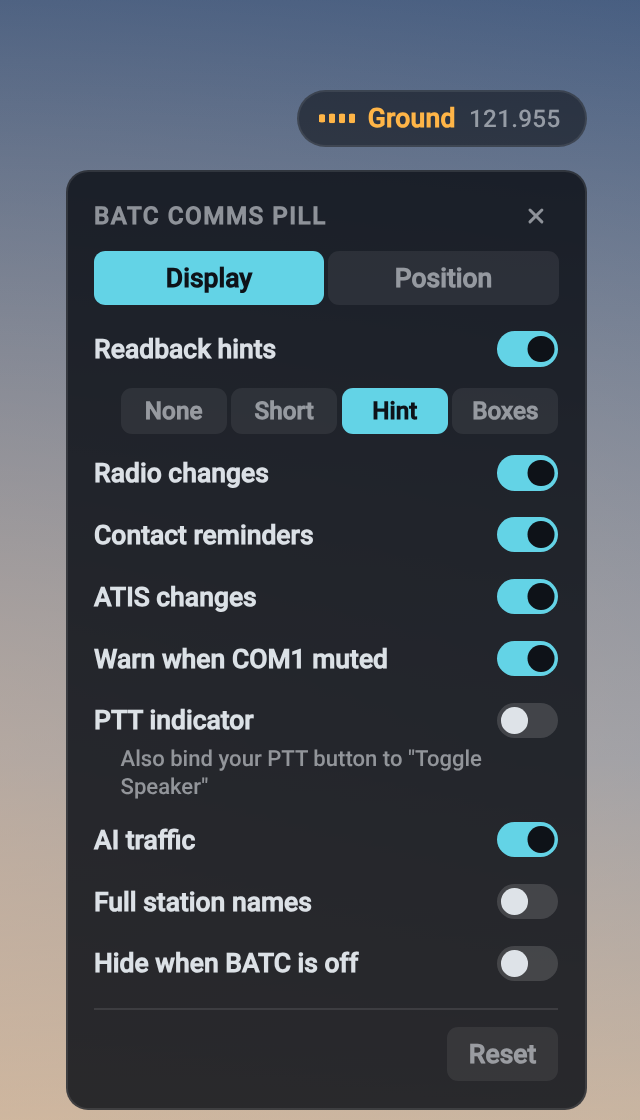
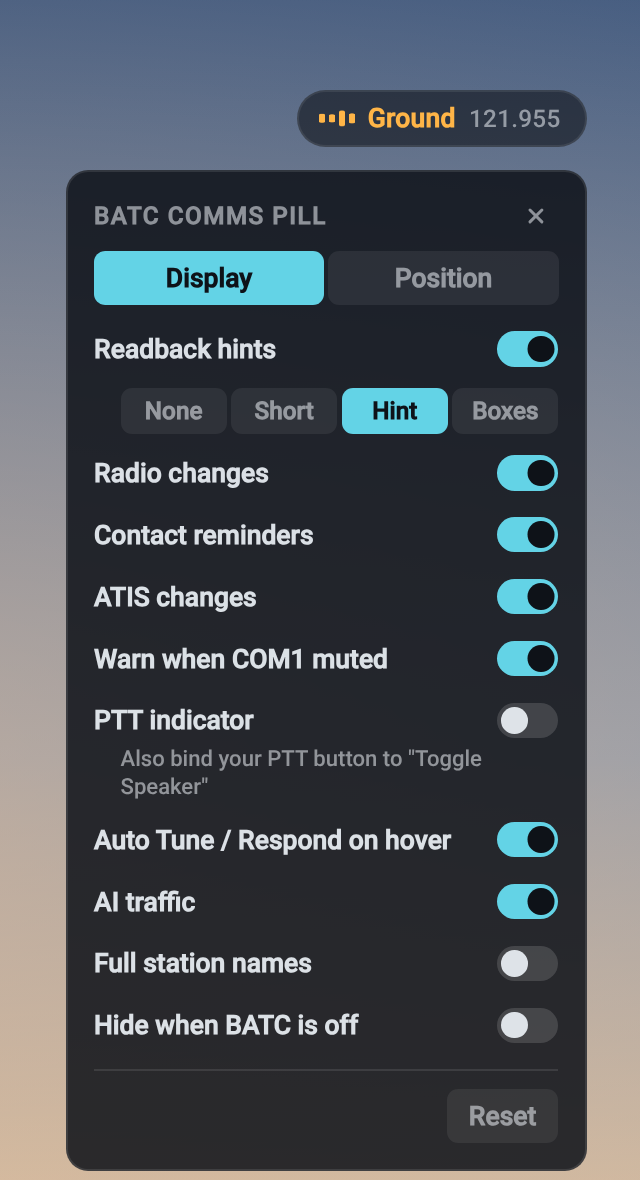
Auto Tune / Auto Respond buttons on hover
Hovering the pill shows two round buttons under it (radio waves: Auto Tune, speech bubble: Auto Respond),
lit when on, dimmed and struck through when off. A click sends the toolbar's own command
("set_autotune: true|false", "set_autorespond: true|false"); BeyondATC broadcasts the new state back.
These are the only messages the pill sends. Setting "Auto Tune / Respond on hover" (on by default).

Claude-Session: https://claude.ai/code/session_01Lk4uSD1H6Vg8SX71CWaquM

diff --git a/src/html_ui/paul-batc-pill/pill.js b/src/html_ui/paul-batc-pill/pill.js
@@ -1,5 +1,6 @@
 // BATC comms pill: shows BeyondATC's comms state in a screen corner during flight.
-// Reads BeyondATC's toolbar socket (the same one its in-sim panel uses); never sends anything.
+// Reads BeyondATC's toolbar socket (the same one its in-sim panel uses). The only thing it sends is what
+// BeyondATC's own toolbar switches send: "set_autotune: true|false" and "set_autorespond: true|false".
 (function () {
   "use strict";
 
@@ -29,6 +30,7 @@
     pttBlock: false,     // also stop the sim acting on it
     pttDelayMs: 250,     // PTT held this long before "Transmitting" shows. Under ~450 ms a click still shows briefly:
                          // the sim's first repeat comes at ~0.4 s, so a click looks held until then
+    hoverSwitches: true, // hovering the pill shows BeyondATC's Auto Tune and Auto Respond buttons
     hideOffline: false,  // true: no pill at all while BeyondATC isn't running
     showTraffic: true,   // show a neutral "Traffic" pill while AI traffic talks
     facility: "short",   // "short": "Ground", "full": "Montpellier Ground"
@@ -41,7 +43,7 @@
 
   // What the settings card changes. Saved in localStorage, which every sim UI view shares.
   var USER_KEYS = ["corner", "x", "y", "scale", "showTuning", "showContact", "showAtis", "showReadback", "readbackDetail",
-    "warnMuted", "showPtt", "hideOffline",
+    "warnMuted", "showPtt", "hoverSwitches", "hideOffline",
     "showTraffic", "facility"];
   var STORE_KEY = "batcpill.settings";
   var DEFAULTS = {};
@@ -99,6 +101,7 @@
     pttRepeating: false,
     demo: "",            // the setting changed last in the card; the sample shows its effect
     autoTune: true,      // BeyondATC tunes the radios itself ("AutoTune: true")
+    autoRespond: false,  // BeyondATC replies for you ("AutoRespond: true")
     contact: null,       // { name, freq } ATC told you to contact, until COM1 is on it (Auto Tune off)
     atis: "",            // new ATIS letter, shown until atisUntil
     atisUntil: 0,
@@ -106,7 +109,7 @@
     seenInfo: false,     // the first InfoBoxes after connecting is the snapshot, not a change
   };
   var socket = null;
-  var timers = { reconnect: 0, linger: 0, error: 0, tune: 0, missed: 0, confirm: 0, atis: 0, demo: 0, ptt: 0, pttShow: 0, swap: 0, poll: 0 };
+  var timers = { reconnect: 0, linger: 0, error: 0, tune: 0, missed: 0, confirm: 0, swHide: 0, atis: 0, demo: 0, ptt: 0, pttShow: 0, swap: 0, poll: 0 };
   var destroyed = false;
   var current = null;    // last rendered view signature
 
@@ -154,6 +157,7 @@
       toggleRow("ATIS changes", "showAtis") + toggleRow("Warn when COM1 muted", "warnMuted") +
       toggleRow("PTT indicator", "showPtt") +
       '<div class="bc-note">Also bind your PTT button to "Toggle Speaker"</div>' +
+      toggleRow("Auto Tune / Respond on hover", "hoverSwitches") +
       toggleRow("AI traffic", "showTraffic") + toggleRow("Full station names", "fullNames") +
       toggleRow("Hide when BATC is off", "hideOffline") +
     "</div>" +
@@ -167,6 +171,24 @@
     '<div class="bc-foot"><span class="bc-btn bc-reset" data-act="reset">Reset</span></div>';
   document.body.appendChild(card);
   var cardEls = card.querySelectorAll("*");
+
+  // Auto Tune / Auto Respond buttons, beside the pill while the mouse is over it (see onMouseMove)
+  var switches = document.createElement("div");
+  switches.id = "batc-pill-sw";
+  switches.className = "is-closed";
+  // one icon button each, lit when on, dimmed and struck through when off
+  var SLASH = '<path class="bs-slash" d="M2.5 2.5l11 11"/>';
+  switches.innerHTML =
+    '<span class="bs-btn" data-sw="autotune"><svg viewBox="0 0 16 16" fill="none" stroke="currentColor" ' +
+      'stroke-width="1.6" stroke-linecap="round"><circle cx="8" cy="8" r="1.6" fill="currentColor" stroke="none"/>' +
+      '<path d="M5.2 5.2a4 4 0 0 0 0 5.6M10.8 5.2a4 4 0 0 1 0 5.6M3.1 3.1a7 7 0 0 0 0 9.8M12.9 3.1a7 7 0 0 1 0 9.8"/>' +
+      SLASH + "</svg></span>" +
+    '<span class="bs-btn" data-sw="autorespond"><svg viewBox="0 0 16 16" fill="none" stroke="currentColor" ' +
+      'stroke-width="1.6" stroke-linecap="round" stroke-linejoin="round"><path d="M2.5 3.5h11v7h-6l-3 2.5v-2.5h-2z"/>' +
+      '<path d="M5.5 7h5"/>' + SLASH + "</svg></span>";
+  document.body.appendChild(switches);
+  var switchEls = [switches].concat([].slice.call(switches.querySelectorAll("*")));
+  var switchesOpen = false;
 
   function stepRow(label, key) {
     return '<div class="bc-row"><span class="bc-label">' + label + '</span><span class="bc-step">' +
@@ -811,6 +833,11 @@
       case "AutoTune":
         state.autoTune = payload !== "false";
         if (state.autoTune) state.contact = null;
+        updateSwitches();
+        break;
+      case "AutoRespond":
+        state.autoRespond = payload === "true";
+        updateSwitches();
         break;
       case "Actions":
         onActions(payload);
@@ -861,6 +888,7 @@
       state.repliesKey = "";
       state.infoBoxes = [];
       state.readback = null;
+      showSwitches(false);
       render();
       if (!destroyed) timers.reconnect = setTimeout(connect, CONFIG.reconnectMs);
     };
@@ -907,6 +935,7 @@
 
   function openCard(open) {
     state.editing = open;
+    if (open) showSwitches(false);
     card.className = open ? "" : "is-closed";
     // the sim checks data-input-group on the exact element under the cursor, so tag every element
     var els = [card].concat([].slice.call(cardEls));
@@ -962,6 +991,86 @@
     timers.demo = setTimeout(function () { state.demo = ""; render(); }, CONFIG.demoMs);
     set(patch);
   });
+
+  // ---- BeyondATC buttons on hover ----------------------------------------
+  // Mousemove reaches mainUi whatever is under the cursor, so hovering is worked out from positions: the
+  // buttons open over the pill and stay while the mouse is over the pill, the buttons or the gap between.
+
+  function canSwitch() {
+    return CONFIG.hoverSwitches && state.connected && state.inFlight && !state.editing && current !== null &&
+      current !== "hidden";
+  }
+
+  function onMouseMove(e) {
+    if (!canSwitch()) { if (switchesOpen) showSwitches(false); return; }
+    var r = root.getBoundingClientRect();
+    var a = { left: r.left, right: r.right, top: r.top, bottom: r.bottom };
+    if (switchesOpen) {
+      var b = switches.getBoundingClientRect();
+      a = { left: Math.min(a.left, b.left), right: Math.max(a.right, b.right),
+        top: Math.min(a.top, b.top), bottom: Math.max(a.bottom, b.bottom) };
+    }
+    var m = switchesOpen ? 8 : 0;
+    var inside = e.clientX >= a.left - m && e.clientX <= a.right + m && e.clientY >= a.top - m && e.clientY <= a.bottom + m;
+    if (inside) {
+      clearTimeout(timers.swHide);
+      timers.swHide = 0;
+      if (!switchesOpen) showSwitches(true);
+    } else if (switchesOpen && !timers.swHide) {
+      timers.swHide = setTimeout(function () { timers.swHide = 0; showSwitches(false); }, 350);
+    }
+  }
+
+  function showSwitches(open) {
+    switchesOpen = open;
+    switches.className = open ? "" : "is-closed";
+    // clicks need data-input-group on the exact element under the cursor (see openCard)
+    for (var i = 0; i < switchEls.length; i++) {
+      if (open) switchEls[i].setAttribute("data-input-group", "BATC-PILL");
+      else switchEls[i].removeAttribute("data-input-group");
+    }
+    if (open) { placeSwitches(); updateSwitches(); }
+  }
+
+  function placeSwitches() {
+    // beside the pill, on its side, away from the screen edge it sits on
+    var r = root.getBoundingClientRect();
+    var gap = 6 * 0.000926 * window.innerHeight;
+    var st = switches.style;
+    st.top = st.bottom = st.left = st.right = "";
+    if (root.getAttribute("data-side") === "left") st.left = r.left + "px";
+    else st.right = window.innerWidth - r.right + "px";
+    switches.setAttribute("data-edge", /^bottom/.test(CONFIG.corner) ? "bottom" : "top");
+    if (/^bottom/.test(CONFIG.corner)) st.bottom = window.innerHeight - r.top + gap + "px";
+    else st.top = r.bottom + gap + "px";
+  }
+
+  function updateSwitches() {
+    var chips = switches.querySelectorAll("[data-sw]");
+    for (var i = 0; i < chips.length; i++) {
+      var on = chips[i].getAttribute("data-sw") === "autotune" ? state.autoTune : state.autoRespond;
+      chips[i].className = "bs-btn" + (on ? " is-on" : "");
+    }
+  }
+
+  switches.addEventListener("click", function (e) {
+    var el = e.target;
+    while (el && el !== switches && !el.hasAttribute("data-sw")) el = el.parentNode;
+    if (!el || el === switches || !socket || socket.readyState !== 1) return;
+    // the same commands as BeyondATC's toolbar switches; it then sends the new state to every client
+    if (el.getAttribute("data-sw") === "autotune") {
+      state.autoTune = !state.autoTune;
+      if (state.autoTune) state.contact = null;
+      socket.send("set_autotune: " + state.autoTune);
+    } else {
+      state.autoRespond = !state.autoRespond;
+      socket.send("set_autorespond: " + state.autoRespond);
+    }
+    updateSwitches();
+    render();
+  });
+
+  document.addEventListener("mousemove", onMouseMove);
 
   // ---- flight detection -----------------------------------------------
 
@@ -1038,6 +1147,8 @@
     if (keyHandler && window.engine && typeof window.engine.off === "function") window.engine.off("keyIntercepted", keyHandler);
     if (root.parentNode) root.parentNode.removeChild(root);
     if (card.parentNode) card.parentNode.removeChild(card);
+    if (switches.parentNode) switches.parentNode.removeChild(switches);
+    document.removeEventListener("mousemove", onMouseMove);
     if (style.parentNode) style.parentNode.removeChild(style);
     if (window.batcPill && window.batcPill.destroy === destroy) delete window.batcPill;
   }

diff --git a/src/html_ui/paul-batc-pill/pill.css b/src/html_ui/paul-batc-pill/pill.css
@@ -222,6 +222,48 @@
 #batc-pill[data-input-group]:hover .bp-bg { background-color: rgba(14, 18, 24, 0.78); }
 #batc-pill.is-dot[data-input-group]:hover { opacity: 1; }
 
+/* ---- BeyondATC switches (on hover) ---- */
+#batc-pill-sw {
+  --k: 0.0926vh;
+  --on: #63d3e6;
+  position: absolute;
+  z-index: 9999;
+  display: flex;
+  pointer-events: auto;
+  opacity: 1;
+  transform: translateY(0);
+  visibility: visible;
+  transition: opacity 0.18s ease, transform 0.25s cubic-bezier(0.22, 0.8, 0.24, 1), visibility 0s;
+}
+#batc-pill-sw.is-closed {
+  opacity: 0;
+  transform: translateY(calc(-4 * var(--k)));
+  pointer-events: none;
+  visibility: hidden;
+  transition: opacity 0.18s ease, transform 0.25s ease, visibility 0s linear 0.25s;
+}
+#batc-pill-sw .bs-btn {
+  display: flex;
+  align-items: center;
+  justify-content: center;
+  box-sizing: border-box;
+  width: calc(26 * var(--k));
+  height: calc(26 * var(--k));
+  margin-left: calc(4 * var(--k));
+  border-radius: 50%;
+  border: calc(1 * var(--k)) solid rgba(255, 255, 255, 0.08);
+  background-color: rgba(14, 18, 24, 0.78);
+  color: rgba(236, 241, 246, 0.45);
+  cursor: pointer;
+  transition: background-color 0.15s ease, color 0.15s ease, border-color 0.15s ease;
+}
+#batc-pill-sw .bs-btn:first-child { margin-left: 0; }
+#batc-pill-sw .bs-btn:hover { background-color: rgba(30, 36, 44, 0.9); }
+#batc-pill-sw .bs-btn svg { width: calc(14 * var(--k)); height: calc(14 * var(--k)); }
+#batc-pill-sw .bs-btn.is-on { color: var(--on); border-color: rgba(99, 211, 230, 0.55); }
+#batc-pill-sw .bs-btn.is-on .bs-slash { display: none; }
+#batc-pill-sw[data-edge="bottom"].is-closed { transform: translateY(calc(4 * var(--k))); }
+
 /* ---- settings card (opens on pill click) ---- */
 #batc-pill-cfg {
   --k: 0.0926vh;

diff --git a/docs/render_images.py b/docs/render_images.py
@@ -60,7 +60,7 @@ def main():
     print(f"render: states.png {img.size}")
 
     # pill + open card in the top-right corner of a 1080p screen
-    img = shoot("settings.html", (1920, 1080), 2).crop((1600 * 2, 50 * 2, 1920 * 2, 610 * 2))
+    img = shoot("settings.html", (1920, 1080), 2).crop((1600 * 2, 50 * 2, 1920 * 2, 640 * 2))
     img.save(OUT / "settings.png", optimize=True)
     print(f"render: settings.png {img.size}")
 

diff --git a/README.md b/README.md
@@ -32,6 +32,8 @@ Click the pill in flight to open its settings card (two tabs: Display and Positi
 
 <img src="docs/images/settings.png" alt="Settings card" width="340">
 
+Hovering the pill shows two buttons under it: BeyondATC's **Auto Tune** (radio waves) and **Auto Respond** (speech bubble). Lit means on, dimmed and struck through means off; a click flips it, as the toolbar's own switches do.
+
 **Display**
 
 | Setting | |
@@ -43,6 +45,7 @@ Click the pill in flight to open its settings card (two tabs: Display and Positi
 | ATIS changes | show a new ATIS letter |
 | Warn when COM1 muted | red-orange pill when ATC calls you while COM1 is muted |
 | PTT indicator | show "Transmitting" while your PTT button is held (see below) |
+| Auto Tune / Respond on hover | show the Auto Tune and Auto Respond buttons while the mouse is over the pill |
 | AI traffic | show the "Traffic" pill while AI traffic talks |
 | Full station names | "Montpellier Ground" instead of "Ground" |
 | Hide when BATC is off | no pill at all while BeyondATC isn't running |
@@ -133,7 +136,7 @@ CI (`.github/workflows/check.yml`) checks the JS, Python and JSON on every push,
 
 ## How it works
 
-- The BeyondATC desktop app serves its in-sim toolbar over `ws://127.0.0.1:41716`, in lines like `Type: payload`. `CommsState: {"mode","text"}` carries the state (`ready`, `queued`, `processing`, `request`, `awaiting`, `speaking`, `traffic`). The `ATC:` / `Player:` / `Traffic:` line before `speaking` says whose voice it is. `Facility:` (COM1) and `Com2:` changes trigger the radio-change pill. The pill only reads; it never sends.
+- The BeyondATC desktop app serves its in-sim toolbar over `ws://127.0.0.1:41716`, in lines like `Type: payload`. `CommsState: {"mode","text"}` carries the state (`ready`, `queued`, `processing`, `request`, `awaiting`, `speaking`, `traffic`). The `ATC:` / `Player:` / `Traffic:` line before `speaking` says whose voice it is. `Facility:` (COM1) and `Com2:` changes trigger the radio-change pill. The pill only reads, except for the hover buttons: they send the toolbar's own `set_autotune: true|false` / `set_autorespond: true|false`, and BeyondATC answers every client with `AutoTune:` / `AutoRespond:`.
 - Readback hints come from the toolbar's own reply menu (`Actions`): while ATC waits for you it offers "Say Again" next to the replies ("Readback Taxi Instruction", "Acknowledge Takeoff Clearance", "Runway 12L"). The clearance boxes (`InfoBoxes`) give Short and Boxes; the hint text is read from ATC's words.
 - The PTT indicator asks the sim to report the `TOGGLE_SPEAKER` key event to the pill's view (the way the sim's own instruments listen to key events). A held button repeats it; the pill shows "Transmitting" while the repeats keep coming.
 - `injections.json`: the build appends a hidden `<img onerror>` to the stock `MasterPage_InGame` cooked component, which loads `pill.js` once (the same hook //42 Flow uses). `MasterPage_InGame` only mounts in flight; the pill also hides when BeyondATC reports `LoadState.stage` `menu`.

diff --git a/docs/flightsim-to.md b/docs/flightsim-to.md
@@ -29,7 +29,7 @@ A small, quiet pill in a corner of the screen that shows what BeyondATC is doing
 When nothing is happening it shrinks to a small dot. Changes between states are animated.
 
 **Settings**
-Click the pill in flight to open its settings: which events to show and how much detail (Display tab), corner, position and size (Position tab).
+Hover the pill for two buttons that flip BeyondATC's Auto Tune and Auto Respond. Click the pill in flight to open its settings: which events to show and how much detail (Display tab), corner, position and size (Position tab).
 
 **Requirements**
 - Microsoft Flight Simulator 2024
@@ -39,7 +39,7 @@ Click the pill in flight to open its settings: which events to show and how much
 Extract the `paul-batc-pill` folder into your Community folder.
 
 **Notes**
-- The pill reads BeyondATC's local connection and never sends anything to it.
+- The pill reads BeyondATC's local connection. The only thing it sends is the Auto Tune / Auto Respond commands, when you click their buttons (as the toolbar does).
 - Optional PTT indicator: bind your PTT button a second time to the sim's Toggle Speaker (Controls > Communications), keeping BeyondATC's binding, then turn it on in the settings.
 - CPDLC is left to the sim's own datalink pages.
 - The mod overrides one stock UI component (`MasterPage_InGame`) to load. Another mod that overrides the same component will conflict with it. After a sim update that changes it, install the updated version.
@@ -54,6 +54,7 @@ Source and issues: https://github.com/paul-charp/FS24-BATC-Pill
 - Added: readback hints. While ATC waits for your readback, acknowledgement or answer, the pill shows "Awaiting readback" or "Awaiting response" with a short hint, the toolbar's clearance boxes or their values.
 - Added: the pill turns red-orange when ATC calls you again before you reply, and shows "No readback" when BeyondATC stops waiting.
 - Added: a green "Readback OK" when ATC takes your reply, and a red-orange "Negative" with the correction when ATC rejects it.
+- Added: hovering the pill shows buttons for BeyondATC's Auto Tune and Auto Respond.
 - Added: hints for line up, go around, speeds, STARs, "report" requests and taxi to a ramp or gate.
 - Added: with Auto Tune off, a "Contact" reminder until COM1 is on the station ATC handed you to.
 - Added: a new ATIS letter shows for 6 s; an ATIS playing on COM1 shows "ATIS".

diff --git a/AGENTS.md b/AGENTS.md
@@ -6,7 +6,7 @@ screen corner during flight, with a click-to-open settings card. Windows only. U
 
 ## Layout
 
-- `src/html_ui/paul-batc-pill/pill.js`: the whole runtime. Read-only WebSocket client for BeyondATC
+- `src/html_ui/paul-batc-pill/pill.js`: the whole runtime. WebSocket client for BeyondATC (read-only but for the hover buttons)
   (`ws://127.0.0.1:41716`), state machine (`view()`), animated render (`render()` measures the new
   content, then transitions width), settings card, `CONFIG` defaults. `pill.css`: the look; `--u` is
   one 1080p pixel times `CONFIG.scale`.
@@ -87,6 +87,10 @@ screen corner during flight, with a click-to-open settings card. Windows only. U
   `pill.js` keeps a "Contact" reminder from "contact <Station> [on] <freq>" until COM1 (`Facility`)
   matches. An `ATIS Current` box with a new letter shows "ATIS"; the snapshot's box doesn't.
   `CPDLCCode:` and other CPDLC traffic: the pill stays silent (CPDLC is fully handled in the sim).
+- What the toolbar sends (its panel `beyondatc_toolbar.js`, BeyondATC's package, read 2026-10-23): `set_autotune: <bool>`,
+  `set_autorespond: <bool>` on its switches, `set_action: <reply>` on a menu item, `set_frequency: <f>`,
+  `frequencies` / `datis` / `atc_log` on tab clicks. BeyondATC broadcasts the resulting `AutoTune:` /
+  `AutoRespond:` to every client (seen in sniffs when the toolbar switch was clicked).
 - `AppError: {"text","fatal","kicked"}` (text may span lines; empty clears). `Callsign: {full,shortForm}`.
 - The server pings (an empty frame); `sniff_batc.py` lost the connection after each one until it
   answered with a pong. Browsers pong on their own.
@@ -111,5 +115,6 @@ screen corner during flight, with a click-to-open settings card. Windows only. U
 ## Rules
 
 - Never commit Asobo files (cooked components, vanilla UI); the build copies them from the local install.
-- Never send anything on the BeyondATC socket (WebSocket pongs aside).
+- Never send anything on the BeyondATC socket except, on the user's click, the toolbar's own switch commands
+  `set_autotune: true|false` and `set_autorespond: true|false` (the hover buttons). WebSocket pongs aside.
 - Changelogs and release notes list what changed, not why.

diff --git a/CHANGELOG.md b/CHANGELOG.md
@@ -10,6 +10,7 @@
 - Added: with Auto Tune off, a "Contact" reminder until COM1 is on the station ATC handed you to.
 - Added: a new ATIS letter shows for 6 s; an ATIS playing on COM1 shows "ATIS".
 - Added: ATC calling you while COM1 is muted turns the pill red-orange.
+- Added: hovering the pill shows two buttons that flip BeyondATC's Auto Tune and Auto Respond, like the toolbar's own switches (setting "Auto Tune / Respond on hover").
 - Added: optional PTT indicator, from your PTT button also bound to the sim's Toggle Speaker.
 - Changed: "You" is now "Transmitting" while your readback or request plays.
 - Changed: the settings card has two tabs, Display and Position.
